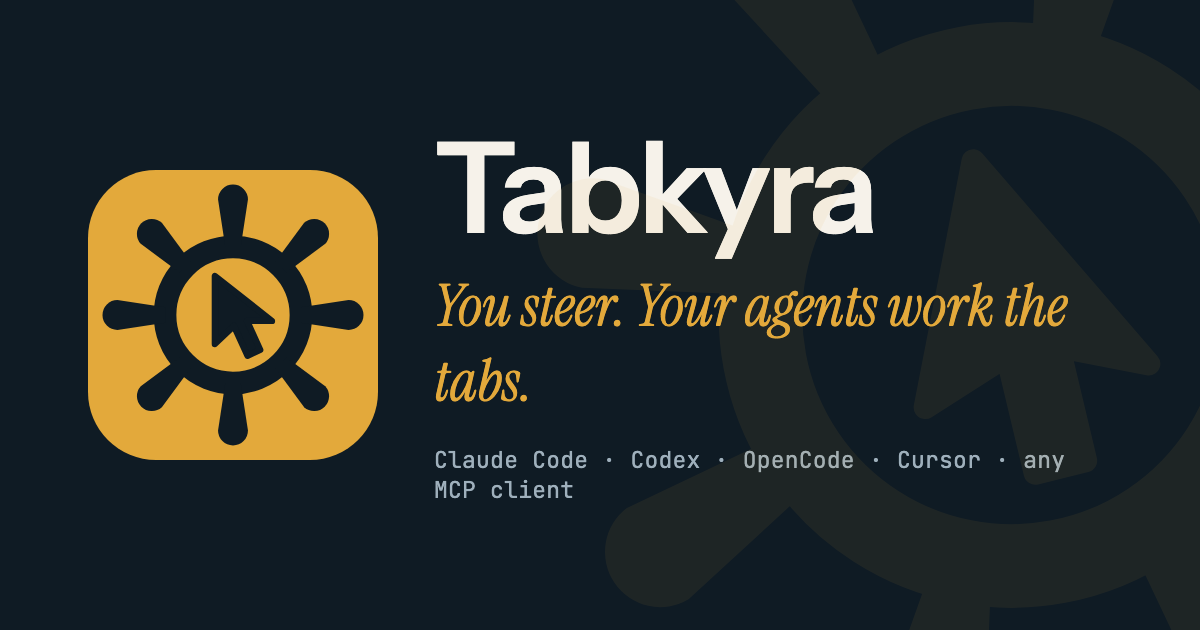
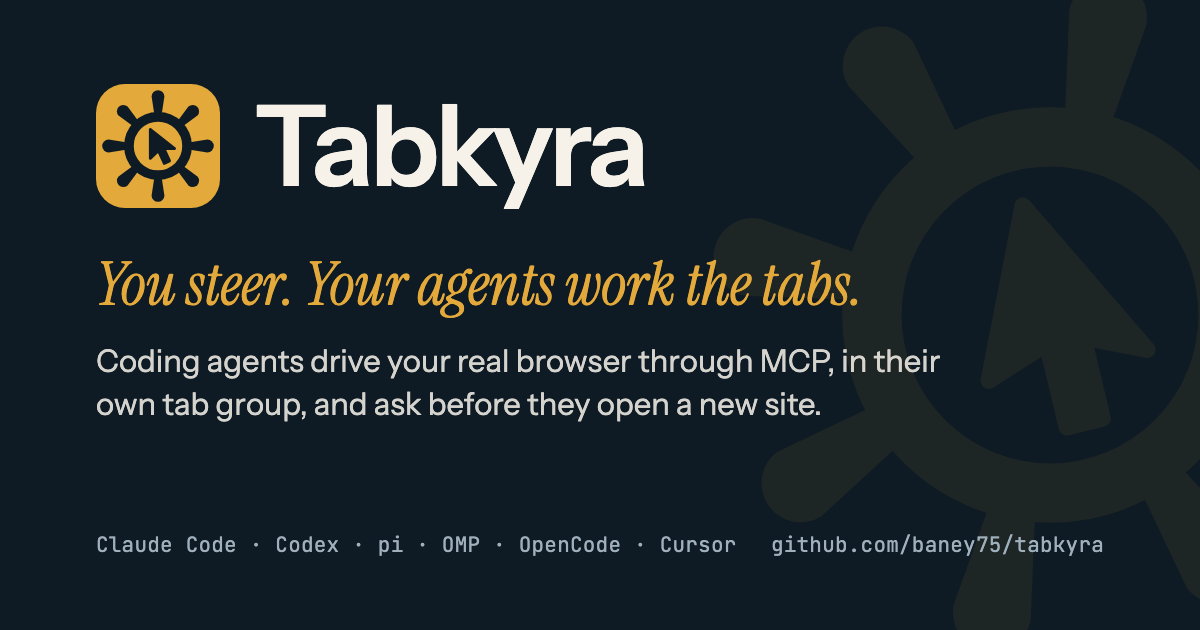
brand: light README hero, GitHub social preview, unwrapped site card
build.mjs now also renders hero-light.png (paper surface, line in brass
deep) and social.png (1280x640 for the repository's social preview). The
site's og.png uses the social card layout, so its line no longer wraps.
The harness line names pi and OMP.

diff --git a/media/brand/BRAND.md b/media/brand/BRAND.md
@@ -18,12 +18,15 @@ hand on the wheel. The app icon sets it in ink on a brass tile.
 | `icon-16.svg` | 16 px icon on its own grid, with six pegs and a solid hub, because the pointer doesn't read at that size. |
 | `mark.svg` | Bare helm in ink, for light backgrounds. |
 | `mark-brass.svg` | Bare helm in brass, for dark backgrounds. |
-| `hero.png` | README hero (1280×400 @2x). |
+| `hero.png` | README hero on ink, for dark themes and the default (1280×400 @2x). |
+| `hero-light.png` | README hero on paper, for light themes. The line is set in brass deep (1280×400 @2x). |
+| `social.png` | GitHub social preview (1280×640). Upload it in the repository's Settings > General > Social preview. |
 
 Everything is generated from the geometry in `build.mjs`. To change the mark, edit that
 file and run `node media/brand/build.mjs`. It rewrites the SVGs, `static/icon-{16,32,48,128}.png`,
-`src/components/helm-svg.ts`, the hero and the site's social card. Don't edit the outputs
-by hand.
+`src/components/helm-svg.ts`, both heroes, the GitHub social preview and the site's
+social card (`site/src/frontend/public/img/og.png`, same layout at 1200×630). Don't edit
+the outputs by hand.
 
 Rules:
 
@@ -31,7 +34,8 @@ Rules:
   to the mark itself (a soft brass glow under the tile in the UI is fine).
 - Give the mark clear space of at least one peg length on every side.
 - Don't rotate the mark. The pointer always points up and to the left. The one exception
-  is the hero's background watermark: the bare brass helm at 7% opacity, turned 11°, cropped off the edge.
+  is the background watermark on the heroes and social cards: the bare brass helm turned
+  11° and cropped off the edge, at 7% opacity on ink and 14% on paper (where 7% disappears).
 - Never pair it with the Sitegeist orb or badlogic's marks. Tabkyra credits them in words,
   not in pictures.
 
